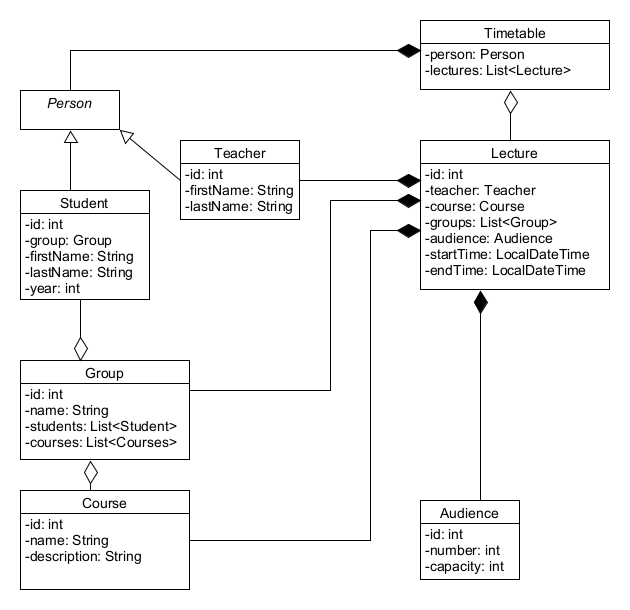
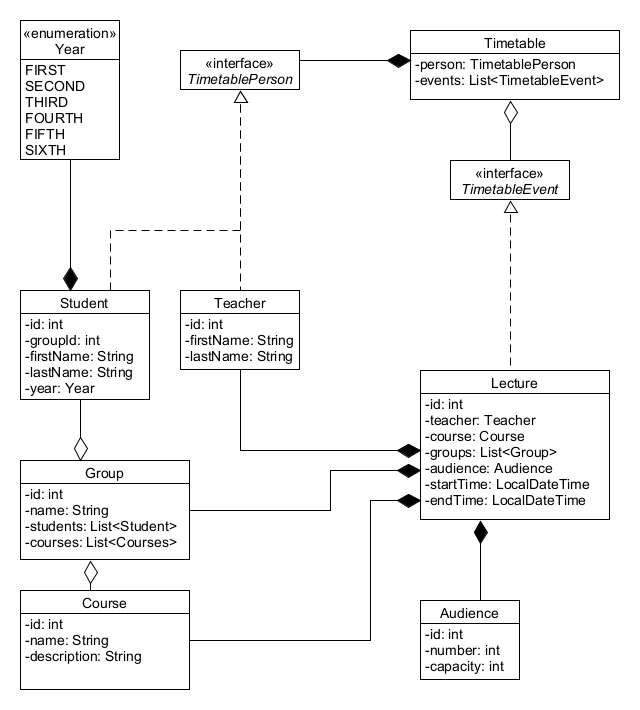
Create models

Changed region(s): [[0.0302, 0.0311, 0.9952, 0.9967], [0.2714, 0.218, 0.4825, 0.3738], [0.2413, 0.2492, 0.2714, 0.2803]]

diff --git a/src/main/java/com/foxminded/koren/university/domain/entity/Lecture.java b/src/main/java/com/foxminded/koren/university/domain/entity/Lecture.java
@@ -1,0 +1,72 @@
+package com.foxminded.koren.university.domain.entity;
+
+import java.time.LocalDateTime;
+import java.util.List;
+
+public class Lecture implements TimetableEvent {
+    
+    private int id;
+    private Audience audience;
+    private Teacher teacher;
+    private Course course;
+    private List<Group> groups;
+    private LocalDateTime startTime;
+    private LocalDateTime endTime;
+    
+    public Lecture(Audience audience,
+                   Teacher teacher, 
+                   Course course, 
+                   List<Group> groups, 
+                   LocalDateTime startTime,
+                   LocalDateTime endTime) {
+        this.audience = audience;
+        this.teacher = teacher;
+        this.course = course;
+        this.groups = groups;
+        this.startTime = startTime;
+        this.endTime = endTime;
+    }
+    
+    public int getId() {
+        return id;
+    }
+    public void setId(int id) {
+        this.id = id;
+    }
+    public Audience getAudience() {
+        return audience;
+    }
+    public void setAudience(Audience audience) {
+        this.audience = audience;
+    }
+    public Teacher getTeacher() {
+        return teacher;
+    }
+    public void setTeacher(Teacher teacher) {
+        this.teacher = teacher;
+    }
+    public Course getCourse() {
+        return course;
+    }
+    public void setCourse(Course course) {
+        this.course = course;
+    }
+    public List<Group> getGroups() {
+        return groups;
+    }
+    public void setGroups(List<Group> groups) {
+        this.groups = groups;
+    }
+    public LocalDateTime getStartTime() {
+        return startTime;
+    }
+    public void setStartTime(LocalDateTime startTime) {
+        this.startTime = startTime;
+    }
+    public LocalDateTime getEndTime() {
+        return endTime;
+    }
+    public void setEndTime(LocalDateTime endTime) {
+        this.endTime = endTime;
+    }
+}

diff --git a/src/main/java/com/foxminded/koren/university/domain/entity/Student.java b/src/main/java/com/foxminded/koren/university/domain/entity/Student.java
@@ -1,0 +1,56 @@
+package com.foxminded.koren.university.domain.entity;
+
+public class Student implements TimetablePerson {
+    private int id;
+    private int groupId;
+    private String firstName;
+    private String lastName;
+    private Year year;
+    
+    public Student(int groupId, String firstName, String lastName, Year year) {
+        this.groupId = groupId;
+        this.firstName = firstName;
+        this.lastName = lastName;
+        this.year = year;
+    }
+
+    public int getId() {
+        return id;
+    }
+
+    public void setId(int id) {
+        this.id = id;
+    }
+
+    public int getGroupId() {
+        return groupId;
+    }
+
+    public void setGroupId(int groupId) {
+        this.groupId = groupId;
+    }
+
+    public String getFirstName() {
+        return firstName;
+    }
+
+    public void setFirstName(String firstName) {
+        this.firstName = firstName;
+    }
+
+    public String getLastName() {
+        return lastName;
+    }
+
+    public void setLastName(String lastName) {
+        this.lastName = lastName;
+    }
+    
+    public Year getYear() {
+        return year;
+    }
+    
+    public void setYear(Year year) {
+        this.year = year;
+    }
+}

diff --git a/src/main/java/com/foxminded/koren/university/domain/entity/Teacher.java b/src/main/java/com/foxminded/koren/university/domain/entity/Teacher.java
@@ -1,0 +1,37 @@
+package com.foxminded.koren.university.domain.entity;
+
+public class Teacher implements TimetablePerson {
+    
+    private int id;
+    private String firstName;
+    private String lastName;
+    
+    public Teacher(String firstName, String lastName) {
+        this.firstName = firstName;
+        this.lastName = lastName;
+    }
+
+    public int getId() {
+        return id;
+    }
+
+    public void setId(int id) {
+        this.id = id;
+    }
+
+    public String getFirstName() {
+        return firstName;
+    }
+
+    public void setFirstName(String firstName) {
+        this.firstName = firstName;
+    }
+
+    public String getLastName() {
+        return lastName;
+    }
+
+    public void setLastName(String lastName) {
+        this.lastName = lastName;
+    }   
+}

diff --git a/src/main/java/com/foxminded/koren/university/domain/entity/Course.java b/src/main/java/com/foxminded/koren/university/domain/entity/Course.java
@@ -1,0 +1,37 @@
+package com.foxminded.koren.university.domain.entity;
+
+public class Course {
+    
+    private int id;
+    private String name;
+    private String descrption;
+    
+    public Course(String name, String descrption) {
+        this.name = name;
+        this.descrption = descrption;
+    }
+
+    public int getId() {
+        return id;
+    }
+
+    public void setId(int id) {
+        this.id = id;
+    }
+
+    public String getName() {
+        return name;
+    }
+
+    public void setName(String name) {
+        this.name = name;
+    }
+
+    public String getDescrption() {
+        return descrption;
+    }
+
+    public void setDescrption(String descrption) {
+        this.descrption = descrption;
+    }   
+}

diff --git a/src/main/java/com/foxminded/koren/university/domain/entity/Timetable.java b/src/main/java/com/foxminded/koren/university/domain/entity/Timetable.java
@@ -1,0 +1,31 @@
+package com.foxminded.koren.university.domain.entity;
+
+import java.util.List;
+
+public class Timetable {
+    
+    private TimetablePerson person;
+    private List<TimetableEvent> events;
+    
+    public Timetable(TimetablePerson person, List<TimetableEvent> events) {
+        super();
+        this.person = person;
+        this.events = events;
+    }
+
+    public TimetablePerson getPerson() {
+        return person;
+    }
+
+    public void setPerson(TimetablePerson person) {
+        this.person = person;
+    }
+
+    public List<TimetableEvent> getEvents() {
+        return events;
+    }
+
+    public void setEvents(List<TimetableEvent> events) {
+        this.events = events;
+    }
+}

diff --git a/src/main/java/com/foxminded/koren/university/domain/entity/Audience.java b/src/main/java/com/foxminded/koren/university/domain/entity/Audience.java
@@ -1,0 +1,37 @@
+package com.foxminded.koren.university.domain.entity;
+
+public class Audience {
+    
+    private int id;
+    private int number;
+    private int capacity;
+    
+    public Audience(int number, int capacity) {
+        this.number = number;
+        this.capacity = capacity;
+    }
+
+    public int getId() {
+        return id;
+    }
+
+    public void setId(int id) {
+        this.id = id;
+    }
+
+    public int getNumber() {
+        return number;
+    }
+
+    public void setNumber(int number) {
+        this.number = number;
+    }
+
+    public int getCapacity() {
+        return capacity;
+    }
+
+    public void setCapacity(int capacity) {
+        this.capacity = capacity;
+    }
+}

diff --git a/src/main/java/com/foxminded/koren/university/domain/entity/Year.java b/src/main/java/com/foxminded/koren/university/domain/entity/Year.java
@@ -1,0 +1,20 @@
+package com.foxminded.koren.university.domain.entity;
+
+public enum Year {
+    FIRST(1),
+    SECOND(2),
+    THIRD(3),
+    FOURTH(4),
+    FIFTH(5),
+    SIXTH(6);
+    
+    private int yearNumber;
+    
+    Year(int yearNumber) {
+       this.yearNumber = yearNumber;
+    }
+    
+    public int getYear() {
+        return yearNumber;
+    }
+}

diff --git a/src/main/java/com/foxminded/koren/university/domain/entity/Group.java b/src/main/java/com/foxminded/koren/university/domain/entity/Group.java
@@ -1,0 +1,11 @@
+package com.foxminded.koren.university.domain.entity;
+
+import java.util.List;
+
+public class Group {
+    
+    private int id;
+    private String name;
+    private List<Student> students;
+    private List<Course> courses;
+}

diff --git a/src/main/java/com/foxminded/koren/university/domain/entity/TimetablePerson.java b/src/main/java/com/foxminded/koren/university/domain/entity/TimetablePerson.java
@@ -1,0 +1,5 @@
+package com.foxminded.koren.university.domain.entity;
+
+public interface TimetablePerson {
+
+}

diff --git a/src/main/java/com/foxminded/koren/university/domain/entity/TimetableEvent.java b/src/main/java/com/foxminded/koren/university/domain/entity/TimetableEvent.java
@@ -1,0 +1,5 @@
+package com.foxminded.koren.university.domain.entity;
+
+public interface TimetableEvent {
+
+}
